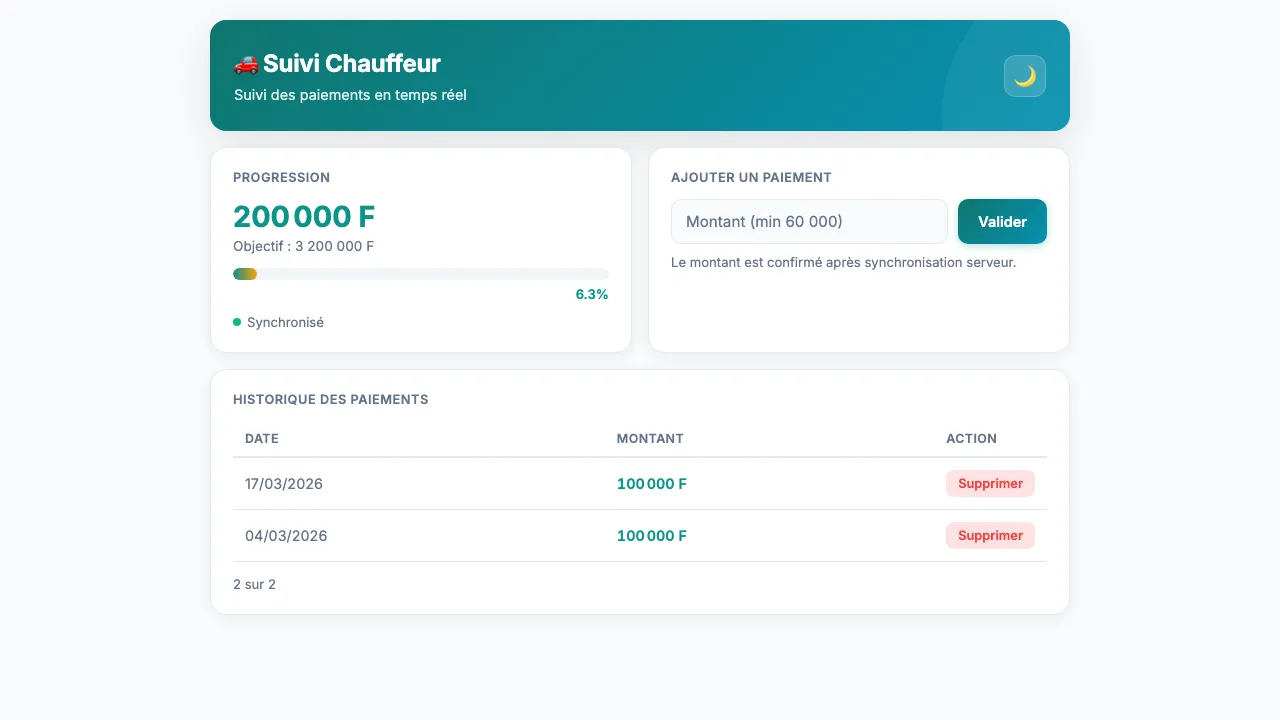
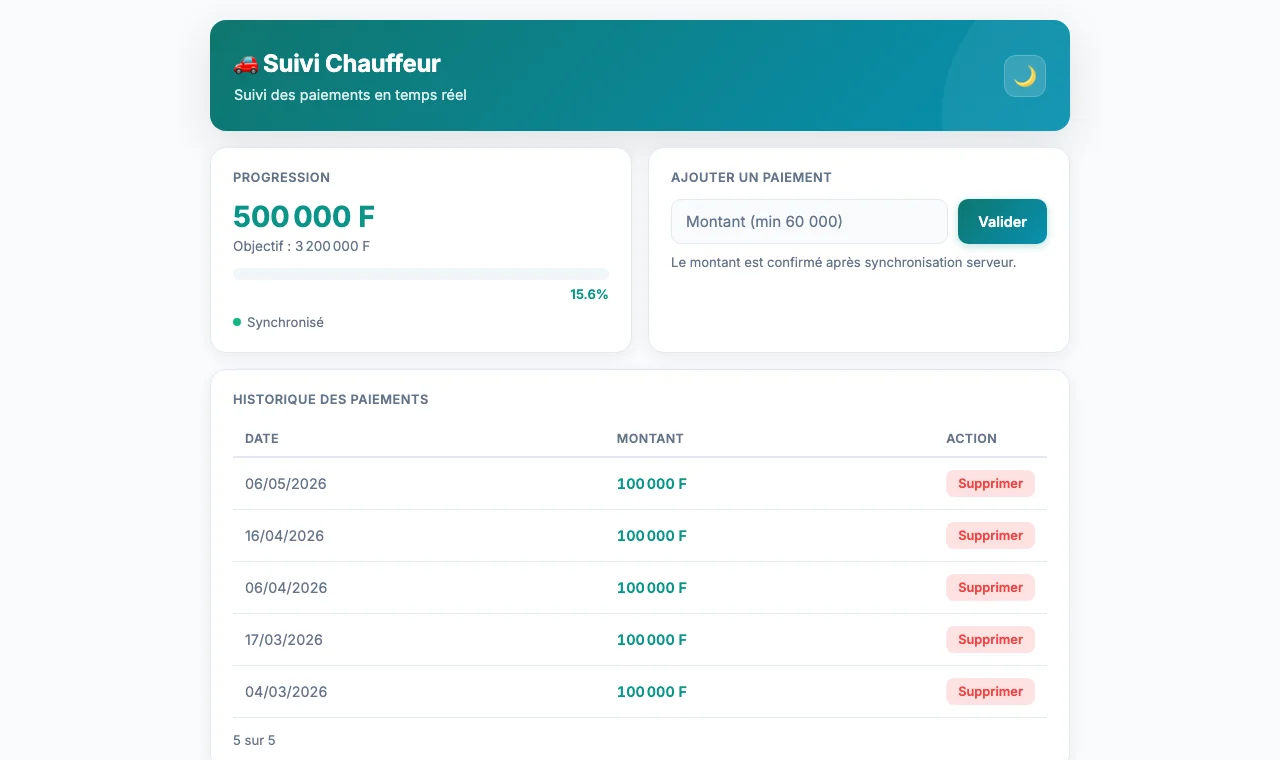
Projet Suivi Chauffeur -> React + Firebase (migration temps reel), capture live + liens

diff --git a/src/components/Projects.jsx b/src/components/Projects.jsx
@@ -16,7 +16,7 @@ export const fallbackProjects = [
   { id: 5, title: 'Reality Prompt Engine', description: 'Générateur de prompts éditoriaux avec génération de contenu par IA (Google Gemini).', longDescription: "Migration d'un outil statique vers une application React, enrichie d'une véritable intégration IA. À partir d'une configuration (plateforme, public, thème, ton…), l'app construit un prompt structuré puis génère réellement le post via l'API Google Gemini, appelée par une fonction serverless qui garde la clé côté serveur. Mode clair/sombre et copie en un clic conservés.", role: 'Développement & intégration IA', year: '2026', imageUrl: '/images/reality-prompt.webp', category: 'React', tech: ['React', 'Vite', 'Serverless', 'Google Gemini'], github: 'https://github.com/JOJODEVS-GIT/REALITY-PROMPT-ENGINE', live: 'https://reality-prompt-engine.vercel.app' },
   { id: 6, title: 'Mon Produit', description: 'Dashboard de gestion de produits avec statistiques, ROI et suivi des bénéfices.', longDescription: "Tableau de bord de gestion de produits avec statistiques, calcul de ROI et suivi des bénéfices. Un outil concret pour piloter une activité au quotidien.", role: 'Développement front-end', year: '2024', imageUrl: '/images/mon-produit.webp', category: 'HTML/CSS/JS', tech: ['HTML', 'CSS', 'JavaScript'], github: 'https://github.com/JOJODEVS-GIT/MON-PRODUIT', live: 'https://jojodevs-git.github.io/MON-PRODUIT/' },
   { id: 7, title: 'QCM JavaScript', description: 'Quiz interactif JavaScript — 70 questions, 7 thèmes, timer 20s par question.', longDescription: "Quiz interactif pour s'entraîner en JavaScript : 70 questions réparties en 7 thèmes, timer de 20s par question et statistiques de résultats. Ludique et pédagogique.", role: 'Conception & développement', year: '2024', imageUrl: '/images/qcm-javascript.webp', category: 'HTML/CSS/JS', tech: ['HTML', 'CSS', 'JavaScript'], github: 'https://github.com/JOJODEVS-GIT/QCM-JAVASCRIPT', live: 'https://jojodevs-git.github.io/QCM-JAVASCRIPT/' },
-  { id: 8, title: 'Suivi Chauffeur', description: 'Application de suivi de paiements chauffeurs en temps réel avec historique.', longDescription: "Application de suivi des paiements chauffeurs en temps réel, avec historique et vue d'ensemble. Conçue pour simplifier la gestion au jour le jour.", role: 'Développement front-end', year: '2024', imageUrl: '/images/suivi-chauffeur.webp', category: 'HTML/CSS/JS', tech: ['HTML', 'CSS', 'JavaScript'], github: 'https://github.com/JOJODEVS-GIT/SUIVI-CHAUFFEUR', live: 'https://jojodevs-git.github.io/SUIVI-CHAUFFEUR/' },
+  { id: 8, title: 'Suivi Chauffeur', description: 'Suivi de paiements chauffeur en temps réel (Firebase), migré en React.', longDescription: "Migration d'un outil statique vers une application React (Vite) connectée à Firebase Firestore : synchronisation temps réel entre appareils, ajout et suppression de paiements protégés par code PIN, barre de progression vers un objectif, historique paginé et mode sombre. Le rendu et le comportement d'origine sont conservés, sur le même projet Firestore.", role: 'Migration & développement (React + Firebase)', year: '2026', imageUrl: '/images/suivi-chauffeur.webp', category: 'React', tech: ['React', 'Vite', 'Firebase', 'Firestore'], github: 'https://github.com/JOJODEVS-GIT/SUIVI-CHAUFFEUR', live: 'https://suivi-chauffeur.vercel.app' },
   { id: 9, title: 'Générateur QR Codes', description: 'Outil desktop de génération de QR codes avec interface graphique Tkinter.', longDescription: "Application desktop de génération de QR codes avec une interface graphique Tkinter. Un utilitaire simple et efficace développé en Python.", role: 'Développement Python', year: '2023', gradient: 'from-purple-600 to-[#0F3460]', category: 'Python', tech: ['Python', 'Tkinter', 'qrcode'], github: 'https://github.com/JOJODEVS-GIT/GENERATEUR-QR-CODES' },
 ];
 

diff --git a/src/admin/Dashboard.jsx b/src/admin/Dashboard.jsx
@@ -73,7 +73,7 @@ const seedData = {
     { title: 'Reality Prompt Engine', description: "Générateur de prompts éditoriaux avec génération de contenu par IA (Google Gemini), migré en React.", category: 'React', tech: ['React', 'Vite', 'Serverless', 'Google Gemini'], github: 'https://github.com/JOJODEVS-GIT/REALITY-PROMPT-ENGINE', live: 'https://reality-prompt-engine.vercel.app', imageUrl: '/images/reality-prompt.webp', order: 3 },
     { title: 'Mon Produit', description: 'Dashboard de gestion de produits avec statistiques et suivi.', gradient: 'from-[#0F3460] to-blue-800', category: 'HTML/CSS/JS', tech: ['HTML', 'CSS', 'JavaScript'], github: 'https://github.com/JOJODEVS-GIT/MON-PRODUIT', live: 'https://mon-produit.vercel.app', imageUrl: '/images/mon-produit.webp', order: 4 },
     { title: 'QCM JavaScript', description: 'Quiz interactif JavaScript — 60 questions, timer, stats par thème.', gradient: 'from-yellow-600 to-[#16C79A]', category: 'HTML/CSS/JS', tech: ['HTML', 'CSS', 'JavaScript'], github: 'https://github.com/JOJODEVS-GIT/QCM-JAVASCRIPT', live: 'https://qcm-javascript.vercel.app', imageUrl: '/images/qcm-javascript.webp', order: 5 },
-    { title: 'Suivi Chauffeur', description: 'Application de suivi et gestion de chauffeurs en temps réel.', gradient: 'from-[#16C79A] to-teal-700', category: 'HTML/CSS/JS', tech: ['HTML', 'CSS', 'JavaScript'], github: 'https://github.com/JOJODEVS-GIT/SUIVI-CHAUFFEUR', live: 'https://suivi-chauffeur.vercel.app', imageUrl: '/images/suivi-chauffeur.webp', order: 6 },
+    { title: 'Suivi Chauffeur', description: 'Suivi de paiements chauffeur en temps réel avec Firebase, migré en React.', category: 'React', tech: ['React', 'Vite', 'Firebase', 'Firestore'], github: 'https://github.com/JOJODEVS-GIT/SUIVI-CHAUFFEUR', live: 'https://suivi-chauffeur.vercel.app', imageUrl: '/images/suivi-chauffeur.webp', order: 6 },
     { title: 'MERAYA — First Anniversary', description: 'Landing événementielle premium pour une marque de mode : hero vidéo, animations GSAP et réservation en ligne.', gradient: 'from-[#0F3460] to-[#16C79A]', category: 'React', tech: ['Next.js', 'React', 'TypeScript', 'GSAP', 'Tailwind'], github: 'https://github.com/JOJODEVS-GIT/meraya', live: 'https://meraya-demo.vercel.app', imageUrl: '/images/meraya.webp', order: 7 },
     { title: 'Bloom Event', description: "Plateforme de réservation d'événements au Bénin développée avec Laravel — base de données, réservations et back-end.", category: 'Laravel', tech: ['Laravel', 'PHP', 'MySQL', 'Bootstrap', 'Blade'], github: 'https://github.com/JOJODEVS-GIT/bloom-event-laravel', live: 'https://bloom-event.onrender.com', imageUrl: '/images/bloom-event.webp', order: 8 },
     { title: 'Générateur QR Codes', description: 'Outil desktop de génération de QR codes avec interface graphique Tkinter.', gradient: 'from-purple-600 to-[#0F3460]', category: 'Python', tech: ['Python', 'Tkinter', 'qrcode'], github: 'https://github.com/JOJODEVS-GIT/GENERATEUR-QR-CODES', live: '', imageUrl: '', order: 9 },
